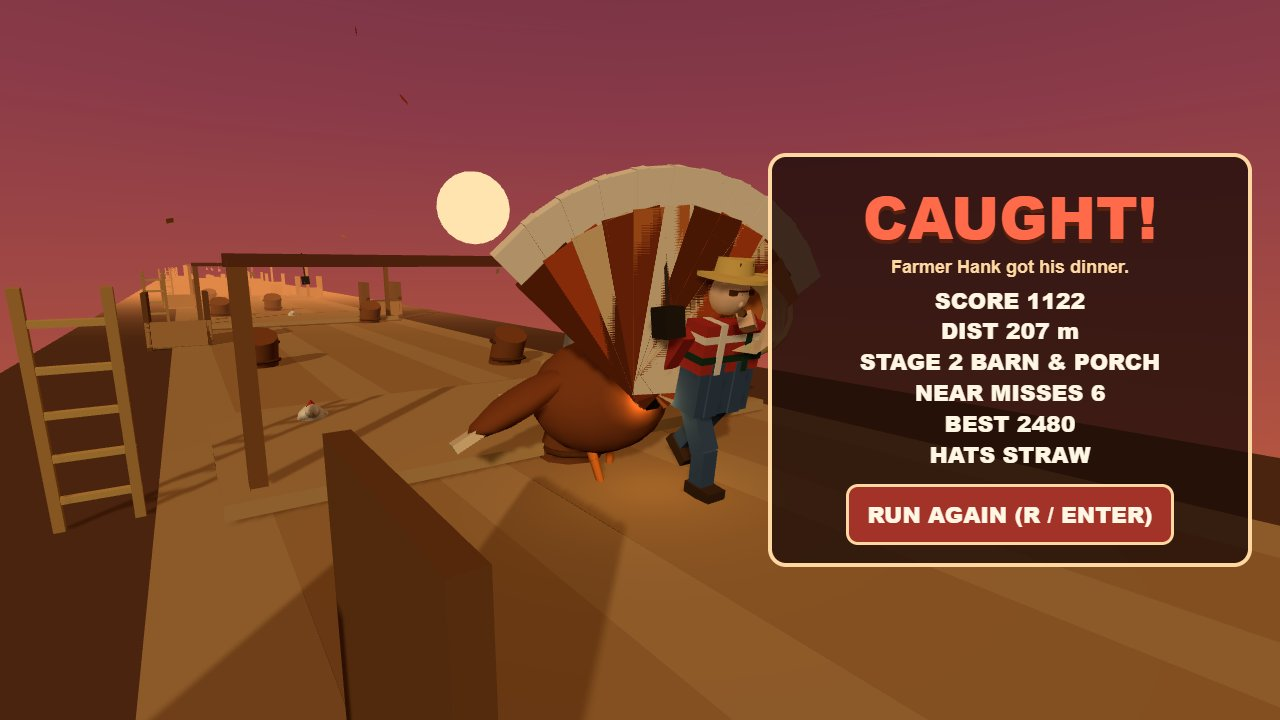
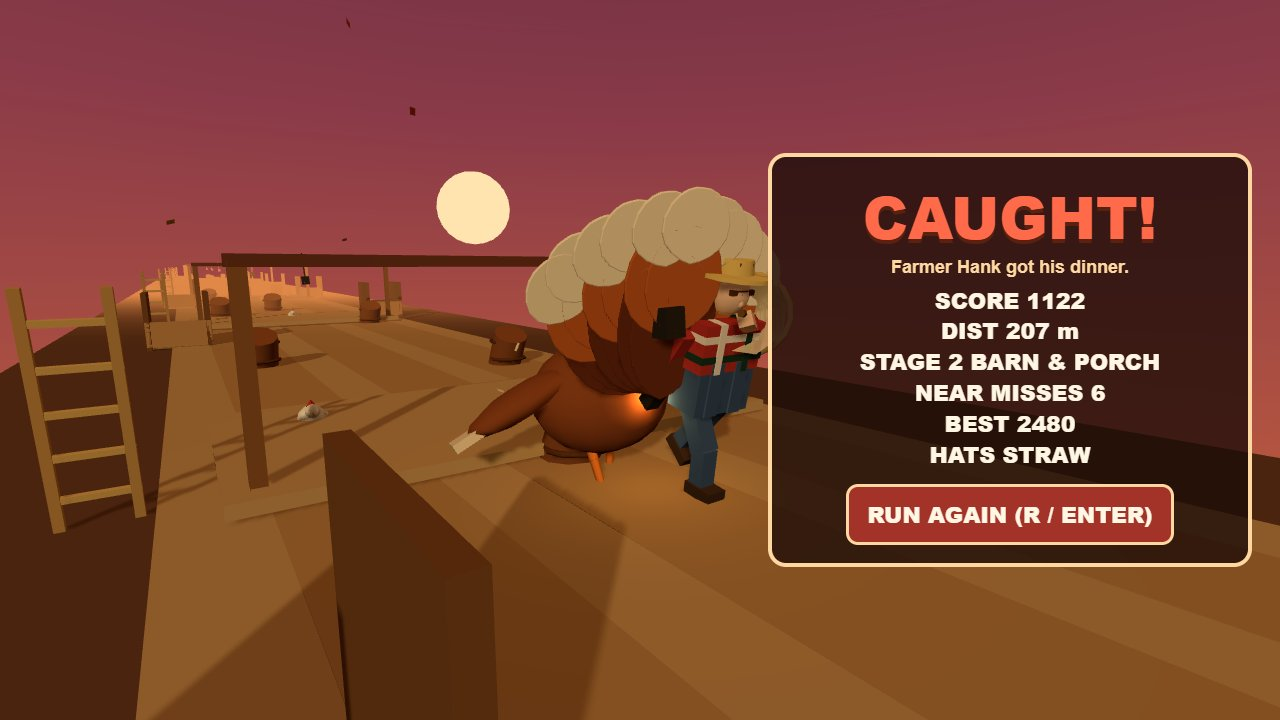
V2B: tail fan plumage

Changed region(s): [[0.375, 0.2139, 0.625, 0.5806]]

diff --git a/game/src/turkey-model.js b/game/src/turkey-model.js
@@ -20,10 +20,10 @@ function featherMaterial(color, offsetFactor) {
 function featherShape(halfW, height) {
   const s = new THREE.Shape();
   s.moveTo(0, 0);
-  s.quadraticCurveTo(halfW * 1.08, height * 0.2, halfW * 0.58, height * 0.55);
-  s.quadraticCurveTo(halfW * 0.26, height * 0.88, 0, height);
-  s.quadraticCurveTo(-halfW * 0.26, height * 0.88, -halfW * 0.58, height * 0.55);
-  s.quadraticCurveTo(-halfW * 1.08, height * 0.2, 0, 0);
+  s.bezierCurveTo(halfW * 0.4, height * 0.04, halfW * 1.05, height * 0.22, halfW * 0.92, height * 0.58);
+  s.bezierCurveTo(halfW * 0.78, height * 0.9, halfW * 0.3, height * 1.02, 0, height);
+  s.bezierCurveTo(-halfW * 0.3, height * 1.02, -halfW * 0.78, height * 0.9, -halfW * 0.92, height * 0.58);
+  s.bezierCurveTo(-halfW * 1.05, height * 0.22, -halfW * 0.4, height * 0.04, 0, 0);
   return s;
 }
 
@@ -40,9 +40,9 @@ function featherGeo(halfW, height) {
   return geo;
 }
 
-const TAIL_BASE_GEO = featherGeo(0.2, 0.82);
-const TAIL_MID_GEO = featherGeo(0.155, 0.56);
-const TAIL_TIP_GEO = featherGeo(0.12, 0.36);
+const TAIL_BASE_GEO = featherGeo(0.34, 1.08);
+const TAIL_MID_GEO = featherGeo(0.3, 0.7);
+const TAIL_TIP_GEO = featherGeo(0.26, 0.46);
 const TAIL_BASE_MAT = featherMaterial(0x6a3018, 1);
 const TAIL_MID_MAT = featherMaterial(0xc4622a, -1);
 const TAIL_TIP_MAT = featherMaterial(0xfff3d4, -3);
@@ -68,28 +68,29 @@ export function createTurkey() {
   breast.scale.set(0.95, 0.8, 0.7);
 
   const tail = new THREE.Group();
-  tail.position.set(0, 1.02, -0.78);
+  tail.position.set(0, 0.92, -0.78);
+  tail.scale.set(1.15, 1.2, 1);
   rig.add(tail);
   for (let i = 0; i < 11; i += 1) {
     const feather = new THREE.Group();
     const fromCenter = i - 5;
     const edge = Math.abs(fromCenter) / 5;
-    feather.rotation.z = fromCenter * 0.15;
-    feather.rotation.x = fromCenter * 0.01;
-    feather.rotation.y = (i % 2 === 0 ? 0.028 : -0.028);
+    feather.rotation.z = fromCenter * 0.168;
+    feather.rotation.x = fromCenter * 0.008;
+    feather.rotation.y = (i % 2 === 0 ? 0.02 : -0.02);
     // Chase cam sees tail-local -Z. Centre feather sits closest; edges step back.
-    feather.position.z = -0.06 + edge * 0.22;
-    feather.scale.set(1 - edge * 0.06, 1 - edge * 0.16, 1);
+    feather.position.z = -0.07 + edge * 0.24;
+    feather.scale.set(1 - edge * 0.04, 1 - edge * 0.1, 1);
     const base = new THREE.Mesh(TAIL_BASE_GEO, TAIL_BASE_MAT);
     base.castShadow = true;
     base.receiveShadow = true;
     feather.add(base);
     const mid = new THREE.Mesh(TAIL_MID_GEO, TAIL_MID_MAT);
-    mid.position.set(0, 0.4, -0.03);
+    mid.position.set(0, 0.5, -0.032);
     mid.castShadow = true;
     feather.add(mid);
     const tip = new THREE.Mesh(TAIL_TIP_GEO, TAIL_TIP_MAT);
-    tip.position.set(0, 0.84, -0.058);
+    tip.position.set(0, 0.98, -0.062);
     tip.castShadow = true;
     feather.add(tip);
     tail.add(feather);
